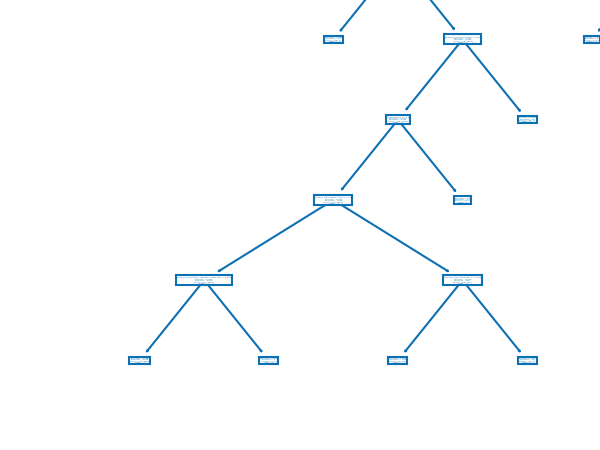
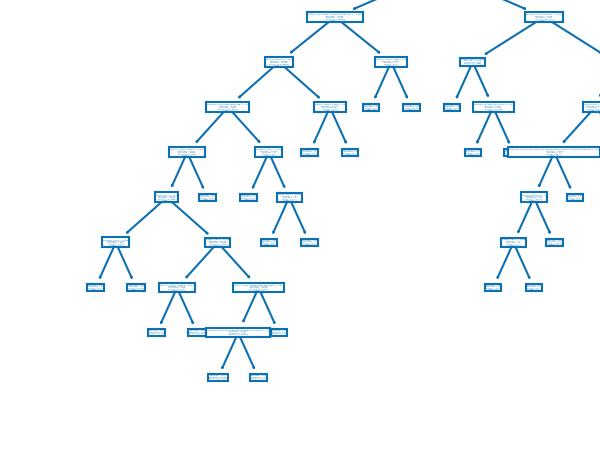
Decision tree set 1 update

diff --git a/lab05_decision_trees_and_overfitting/set1_decision_trees_study.py b/lab05_decision_trees_and_overfitting/set1_decision_trees_study.py
@@ -1,0 +1,84 @@
+from numpy import ndarray
+from pandas import DataFrame, read_csv, unique
+from matplotlib.pyplot import figure, subplots, savefig, show
+from sklearn.tree import DecisionTreeClassifier
+from ds_charts import plot_evaluation_results, multiple_line_chart, plot_line
+from sklearn.metrics import accuracy_score, precision_score, recall_score, f1_score
+
+file_tag = 'set1'
+filename = 'lab03_knn_and_scaling/ew_data/set1'
+target = 'PERSON_INJURY'
+
+train: DataFrame = read_csv(f'lab04_naive_bayes_and_balancing/ew_data/set1_smote_scaled.csv')
+trnY: ndarray = train.pop(target).values
+trnX: ndarray = train.values
+labels = unique(trnY)
+labels.sort()
+
+test: DataFrame = read_csv(f'{filename}_test_scaled.csv')
+tstY: ndarray = test.pop(target).values
+tstX: ndarray = test.values
+
+min_impurity_decrease = [0.01, 0.005, 0.0025, 0.001, 0.0005, 0.0001, 0.00005, 0.00001]
+max_depths = [2, 5, 10, 15, 20, 25, 30, 35, 40, 45]
+criteria = ['entropy', 'gini']
+best = ('',  0, 0.0)
+last_best = 0
+best_model = None
+
+figure()
+fig, axs = subplots(1, 2, figsize=(16, 4), squeeze=False)
+for k in range(len(criteria)):
+    f = criteria[k]
+    values = {}
+    for d in max_depths:
+        yvalues = []
+        for imp in min_impurity_decrease:
+            tree = DecisionTreeClassifier(max_depth=d, criterion=f, min_impurity_decrease=imp)
+            tree.fit(trnX, trnY)
+            prdY = tree.predict(tstX)
+            yvalues.append(precision_score(tstY, prdY))
+            if yvalues[-1] > last_best:
+                best = (f, d, imp)
+                last_best = yvalues[-1]
+                best_model = tree
+
+        values[d] = yvalues
+    multiple_line_chart(min_impurity_decrease, values, ax=axs[0, k], title=f'Decision Trees with {f} criteria',
+                           xlabel='min_impurity_decrease', ylabel='precision_score', percentage=True)
+    
+savefig(f'lab05_decision_trees_and_overfitting/images/{file_tag}/{file_tag}_dt_study_precision.png')
+show()
+print('Best results achieved with %s criteria, depth=%d and min_impurity_decrease=%1.6f ==> accuracy=%1.2f'%(best[0], best[1], best[2], last_best))
+
+# from sklearn import tree
+
+# labels = [str(value) for value in labels]
+# tree.plot_tree(best_model, feature_names=train.columns, class_names=labels)
+# savefig(f'lab05_decision_trees_and_overfitting/images/{file_tag}/{file_tag}_dt_best_tree.png')
+# show()
+
+prd_trn = best_model.predict(trnX)
+prd_tst = best_model.predict(tstX)
+plot_evaluation_results(labels, trnY, prd_trn, tstY, prd_tst)
+savefig(f'lab05_decision_trees_and_overfitting/images/{file_tag}/{file_tag}_dt_best.png')
+show()
+
+from numpy import argsort, arange
+from ds_charts import horizontal_bar_chart
+from matplotlib.pyplot import Axes
+
+variables = train.columns
+importances = best_model.feature_importances_
+indices = argsort(importances)[::-1]
+elems = []
+imp_values = []
+for f in range(len(variables)):
+    elems += [variables[indices[f]]]
+    imp_values += [importances[indices[f]]]
+    print(f'{f+1}. feature {elems[f]} ({importances[indices[f]]})')
+
+figure()
+horizontal_bar_chart(elems, imp_values, error=None, title='Decision Tree Features importance', xlabel='importance', ylabel='variables')
+savefig(f'lab05_decision_trees_and_overfitting/images/{file_tag}/{file_tag}_dt_ranking.png')
+show()
